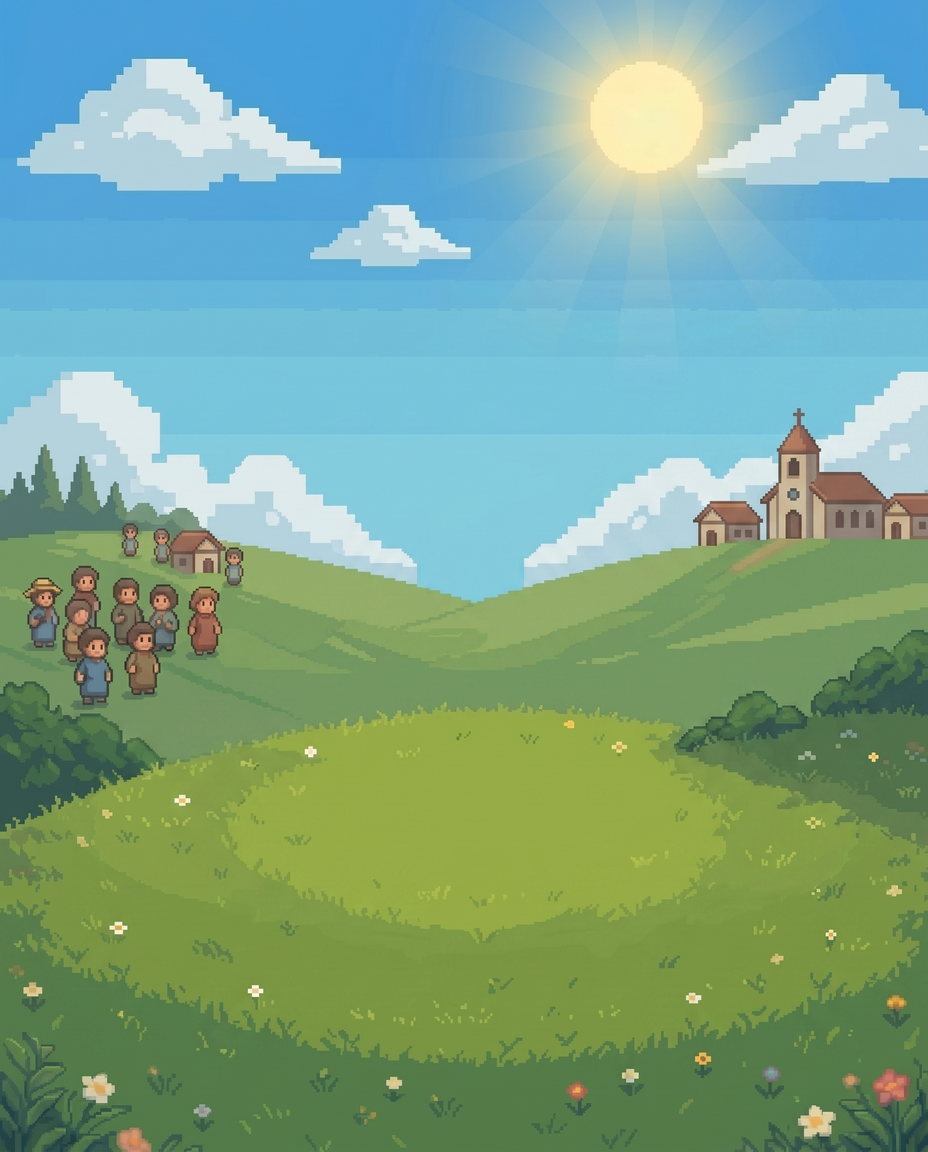
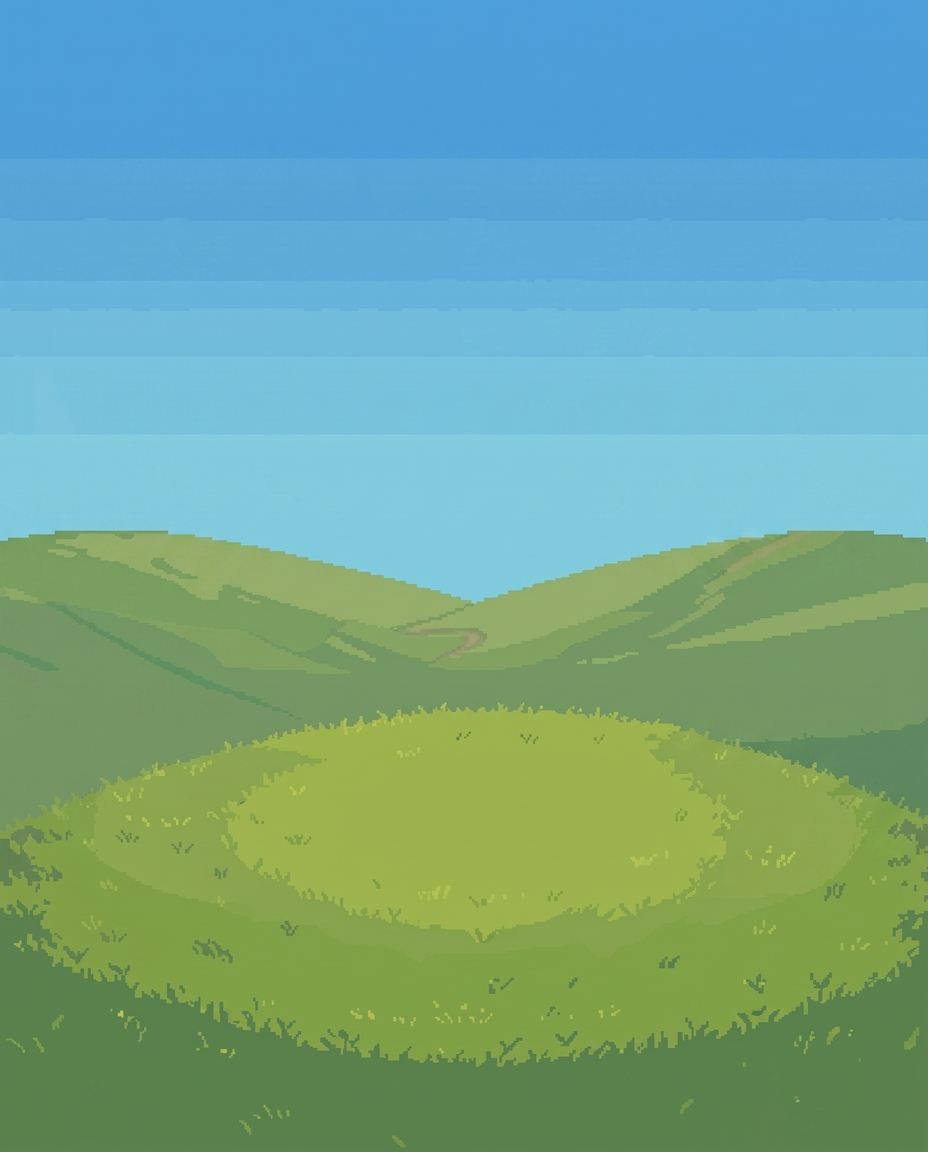
Enable direct drag NPC move and switch to empty base background

diff --git a/apps/mobile-app/app/(tabs)/world.tsx b/apps/mobile-app/app/(tabs)/world.tsx
@@ -64,7 +64,6 @@ export default function WorldScreen() {
   const [worldSetup, setWorldSetup] = useState<WorldSetupState | null>(null);
   const [keyboardVisible, setKeyboardVisible] = useState(false);
   const [npcReaction, setNpcReaction] = useState<string | null>(null);
-  const [editMode, setEditMode] = useState(false);
   const [jesusAnchor, setJesusAnchor] = useState({ nx: 0.5, ny: 0.64 });
   const [worldSize, setWorldSize] = useState({ width: 1, height: 1 });
 
@@ -177,34 +176,27 @@ export default function WorldScreen() {
   const panResponder = useMemo(
     () =>
       PanResponder.create({
-        onStartShouldSetPanResponder: () => editMode,
-        onMoveShouldSetPanResponder: () => editMode,
+        onStartShouldSetPanResponder: () => true,
+        onMoveShouldSetPanResponder: () => true,
         onPanResponderGrant: () => {
-          if (!editMode) return;
           dragStartRef.current = { x: jesusLeft, y: jesusTop };
         },
         onPanResponderMove: (_, gesture) => {
-          if (!editMode) return;
           const maxX = Math.max(1, worldSize.width - jesusW);
           const maxY = Math.max(1, worldSize.height - jesusH);
           const nextX = Math.max(0, Math.min(maxX, dragStartRef.current.x + gesture.dx));
           const nextY = Math.max(0, Math.min(maxY, dragStartRef.current.y + gesture.dy));
           setJesusAnchor({ nx: nextX / maxX, ny: nextY / maxY });
         },
-        onPanResponderRelease: async () => {
+        onPanResponderRelease: async (_, gesture) => {
+          if (Math.abs(gesture.dx) + Math.abs(gesture.dy) < 6) {
+            reactNpcTouch();
+          }
           await persistAnchor(jesusAnchor.nx, jesusAnchor.ny);
         },
       }),
-    [editMode, jesusAnchor.nx, jesusAnchor.ny, jesusH, jesusLeft, jesusW, worldSize.height, worldSize.width]
+    [jesusAnchor.nx, jesusAnchor.ny, jesusH, jesusLeft, jesusW, worldSize.height, worldSize.width]
   );
-
-  const nudgeJesus = async (dx: number, dy: number) => {
-    const maxX = Math.max(1, worldSize.width - jesusW);
-    const maxY = Math.max(1, worldSize.height - jesusH);
-    const px = jesusLeft + dx;
-    const py = jesusTop + dy;
-    await persistAnchor(px / maxX, py / maxY);
-  };
 
   if (loading || !snapshot || !selected) {
     return (
@@ -229,15 +221,9 @@ export default function WorldScreen() {
               <Image source={WORLD_LAYER_OBJECTS} style={{ position: "absolute", inset: 0, width: "100%", height: "100%" }} resizeMode="cover" />
 
               <Animated.View style={{ position: "absolute", left: jesusLeft, top: jesusTop, width: jesusW, height: jesusH, transform: [{ translateY: npcFloat }], zIndex: 13 }} {...panResponder.panHandlers}>
-                {editMode ? (
-                  <View style={{ flex: 1 }}>
-                    <Image source={WORLD_JESUS_NPC} style={{ width: "100%", height: "100%" }} resizeMode="contain" />
-                  </View>
-                ) : (
-                  <Pressable onPress={reactNpcTouch} style={{ flex: 1 }}>
-                    <Image source={WORLD_JESUS_NPC} style={{ width: "100%", height: "100%" }} resizeMode="contain" />
-                  </Pressable>
-                )}
+                <View style={{ flex: 1 }}>
+                  <Image source={WORLD_JESUS_NPC} style={{ width: "100%", height: "100%" }} resizeMode="contain" />
+                </View>
                 <Animated.View
                   pointerEvents="none"
                   style={{
@@ -260,9 +246,9 @@ export default function WorldScreen() {
               <View style={{ position: "absolute", left: 12, right: 12, top: 12, borderRadius: 12, borderWidth: 1, borderColor: "#2f2f2f", backgroundColor: "rgba(14,14,14,0.72)", paddingHorizontal: 10, paddingVertical: 8, zIndex: 20, gap: 6 }}>
                 <View style={{ flexDirection: "row", justifyContent: "space-between", alignItems: "center" }}>
                   <Text style={{ color: "rgba(255,234,191,0.86)", fontSize: 10, fontWeight: "700" }}>{WORLD_MVP_TEMPLATE.backgroundStory}</Text>
-                  <Pressable onPress={() => setEditMode((v) => !v)} style={{ borderRadius: 999, borderWidth: 1, borderColor: editMode ? "#ffeabf" : "#4e6590", backgroundColor: editMode ? "rgba(255,234,191,0.15)" : "rgba(24,32,46,0.7)", paddingHorizontal: 10, paddingVertical: 4 }}>
-                    <Text style={{ color: editMode ? "#ffeabf" : "#d8e7ff", fontSize: 10, fontWeight: "700" }}>{editMode ? "배치 중" : "배치"}</Text>
-                  </Pressable>
+                  <View style={{ borderRadius: 999, borderWidth: 1, borderColor: "#4e6590", backgroundColor: "rgba(24,32,46,0.7)", paddingHorizontal: 10, paddingVertical: 4 }}>
+                    <Text style={{ color: "#d8e7ff", fontSize: 10, fontWeight: "700" }}>드래그 이동</Text>
+                  </View>
                 </View>
                 <Text style={{ color: "#f4f7ff", fontSize: 12, fontWeight: "700" }}>{worldSetup?.churchName ?? "교회 미설정"} · {worldSetup?.mokjangName ?? "목장 미설정"}</Text>
                 <Text numberOfLines={1} style={{ color: "rgba(245,245,245,0.68)", fontSize: 10 }}>{WORLD_MVP_TEMPLATE.scripture}</Text>
@@ -275,21 +261,6 @@ export default function WorldScreen() {
                   </View>
                 </View>
               </View>
-
-              {editMode ? (
-                <View style={{ position: "absolute", right: 12, bottom: 92, zIndex: 22, gap: 6 }}>
-                  <View style={{ flexDirection: "row", justifyContent: "center" }}>
-                    <Pressable onPress={() => nudgeJesus(0, -12)} style={{ minWidth: 40, minHeight: 32, borderRadius: 8, borderWidth: 1, borderColor: "#4e6590", backgroundColor: "rgba(24,32,46,0.8)", alignItems: "center", justifyContent: "center" }}><Text style={{ color: "#d8e7ff" }}>↑</Text></Pressable>
-                  </View>
-                  <View style={{ flexDirection: "row", gap: 6 }}>
-                    <Pressable onPress={() => nudgeJesus(-12, 0)} style={{ minWidth: 40, minHeight: 32, borderRadius: 8, borderWidth: 1, borderColor: "#4e6590", backgroundColor: "rgba(24,32,46,0.8)", alignItems: "center", justifyContent: "center" }}><Text style={{ color: "#d8e7ff" }}>←</Text></Pressable>
-                    <Pressable onPress={() => nudgeJesus(12, 0)} style={{ minWidth: 40, minHeight: 32, borderRadius: 8, borderWidth: 1, borderColor: "#4e6590", backgroundColor: "rgba(24,32,46,0.8)", alignItems: "center", justifyContent: "center" }}><Text style={{ color: "#d8e7ff" }}>→</Text></Pressable>
-                  </View>
-                  <View style={{ flexDirection: "row", justifyContent: "center" }}>
-                    <Pressable onPress={() => nudgeJesus(0, 12)} style={{ minWidth: 40, minHeight: 32, borderRadius: 8, borderWidth: 1, borderColor: "#4e6590", backgroundColor: "rgba(24,32,46,0.8)", alignItems: "center", justifyContent: "center" }}><Text style={{ color: "#d8e7ff" }}>↓</Text></Pressable>
-                  </View>
-                </View>
-              ) : null}
 
               <View style={{ position: "absolute", left: 12, right: 12, bottom: 12, borderRadius: 11, borderWidth: 1, borderColor: "#8a7b54", backgroundColor: "rgba(17,17,17,0.76)", paddingHorizontal: 10, paddingVertical: 8, zIndex: 20 }}>
                 <Text style={{ color: "#ffeabf", fontSize: 10, fontWeight: "700" }}>모라 브리프</Text>
